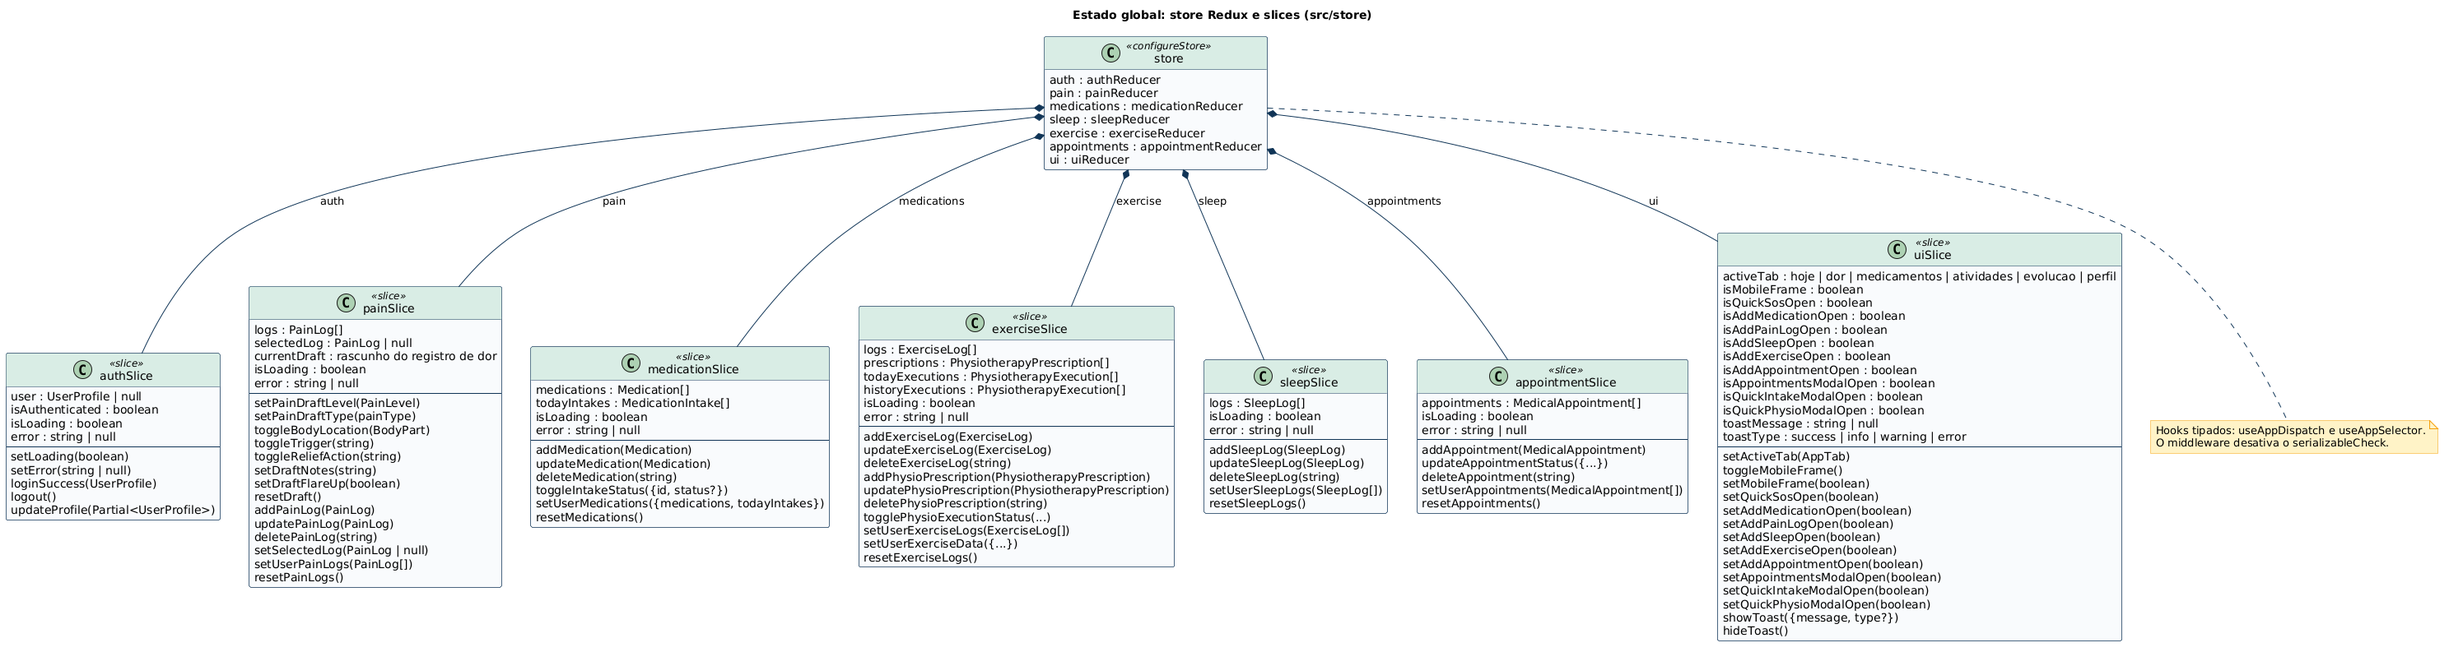
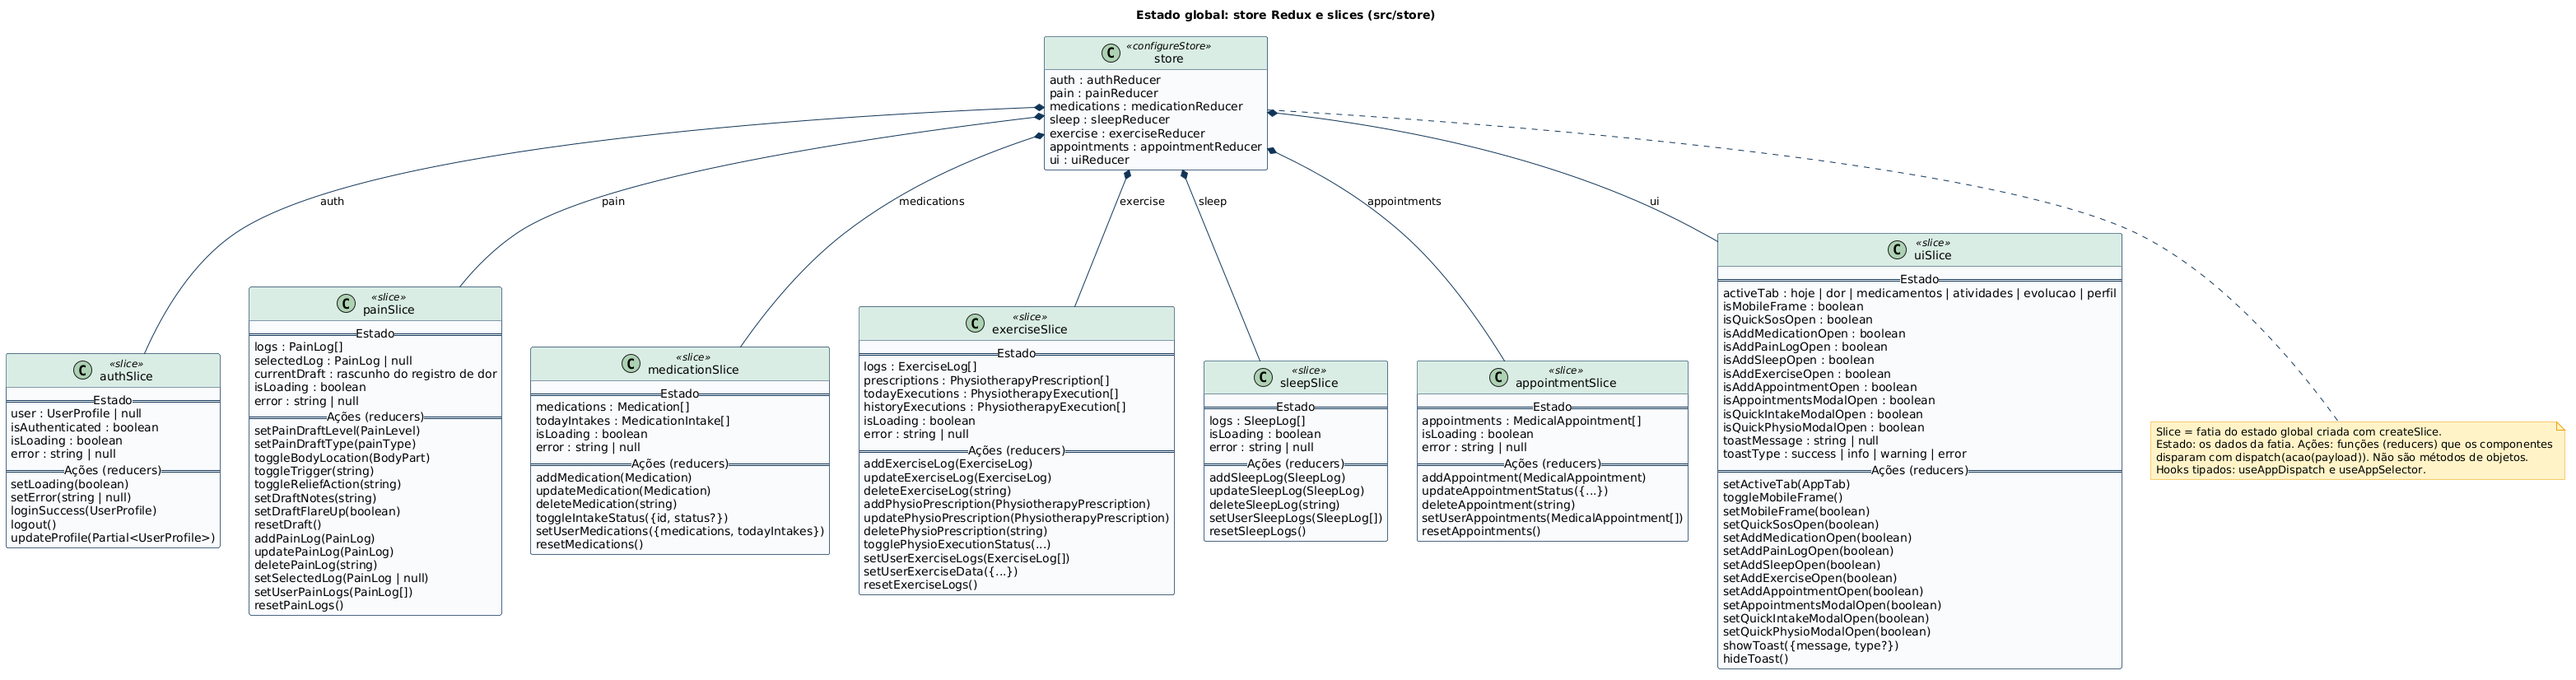
docs: detalha o fluxo Redux e o diagrama do store

diff --git a/docs/uml/classes-codigo/README.md b/docs/uml/classes-codigo/README.md
@@ -17,7 +17,7 @@ Eles complementam os diagramas de [`../classes/`](../classes/README.md), que vê
 ## Convenções
 
 - Os tipos TypeScript (`interface`) aparecem como classes com o estereótipo `<<interface>>`.
-- Os slices do Redux Toolkit aparecem como classes `<<slice>>`: os atributos são o estado, e os métodos são as ações (reducers).
+- Os slices do Redux Toolkit aparecem como classes `<<slice>>`. A seção **Estado** traz os dados da fatia, e a seção **Ações (reducers)** traz as funções que os componentes disparam com `dispatch`. Não são métodos de objetos. O fluxo completo está no diagrama de sequência [09](../sequencia/09-fluxo-redux-registrar-dose.puml).
 - Os serviços são classes com métodos estáticos (`{static}`).
 - No diagrama 04, as setas tracejadas indicam dependência por importação. As ligações com o `uiSlice` foram omitidas, porque quase todos os componentes o usam.
 
@@ -40,6 +40,14 @@ Ao ler o código, apareceram diferenças em relação aos documentos deste repos
 | SOS Crise | Comportamento em aberto (decisão D1) | Registra uma dor com `isFlareUp`, pode agendar uma consulta urgente e mostra o contato de emergência com link de ligação |
 
 Os PRDs, o TDD-0001, os ADRs e os diagramas de caso de uso, sequência e estados foram escritos antes da leitura do código. Eles precisam ser atualizados para refletir esta tabela.
+
+## Pontos de atenção observados no código
+
+Ao desenhar o fluxo de uma dose, apareceram pontos que merecem ser conferidos executando o app:
+
+- O `MedicationService` grava as doses na coleção `medication_intakes`, e o `UserDataSync` lê a coleção `intakes` ao entrar. Pelo código, o estado de uma dose pode não sobreviver ao recarregar a página.
+- Na `MedicationScreen`, a dose é marcada só no Redux (`dispatch(toggleIntakeStatus(...))`), sem chamar o `MedicationService`.
+- O tipo da dose aceita `skipped`, mas as telas só alternam entre `taken` e `pending`.
 
 ## Observação sobre dados de demonstração
 

diff --git a/docs/uml/sequencia/README.md b/docs/uml/sequencia/README.md
@@ -14,6 +14,7 @@ Diagramas de sequência dos principais fluxos do Cuidado Diário, escritos em [P
 | 06 | Exportar relatório em PDF | [06-exportar-relatorio.puml](06-exportar-relatorio.puml) | ![Exportar relatório](img/06-exportar-relatorio.png) | [PRD-0004](../../products/PRD-0004-DOR-E-SINTOMAS.md) |
 | 07 | Exportar ou excluir dados (LGPD) | [07-exportar-excluir-dados.puml](07-exportar-excluir-dados.puml) | ![LGPD](img/07-exportar-excluir-dados.png) | [PRD-0001](../../products/PRD-0001-VISAO-GERAL-DO-PRODUTO.md) |
 | 08 | Cadastrar consulta e alterar status | [08-gerenciar-consulta.puml](08-gerenciar-consulta.puml) | ![Consultas](img/08-gerenciar-consulta.png) | [PRD-0005](../../products/PRD-0005-CONSULTAS.md) |
+| 09 | Fluxo Redux no código: marcar dose no modal rápido | [09-fluxo-redux-registrar-dose.puml](09-fluxo-redux-registrar-dose.puml) | ![Fluxo Redux](img/09-fluxo-redux-registrar-dose.png) | `src/components/medications/QuickMedicationIntakeModal.tsx`, `src/store/slices/medicationSlice.ts` e `src/services/medicationService.ts` |
 
 ## Participantes
 
@@ -27,7 +28,7 @@ Diagramas de sequência dos principais fluxos do Cuidado Diário, escritos em [P
 
 ## Observações
 
-- Os fluxos foram montados a partir dos PRDs e do modelo de dados, e não do código do app. Revise-os com quem conhece a implementação.
+- Os fluxos 01 a 08 foram montados a partir dos PRDs e do modelo de dados, e não do código do app. Revise-os com quem conhece a implementação. O fluxo 09 foi extraído do código real.
 - O banco de dados aparece de forma genérica porque a persistência é adaptável.
 - Notas amarelas indicam pontos em aberto, como o que o SOS Crise aciona (decisão D1).
 

diff --git a/docs/README.md b/docs/README.md
@@ -99,7 +99,7 @@ Nenhum documento ainda. Ver [POL-000](policies/POL-000-INDEX.md) e [RFC-000](rfc
 | [`uml/casos-de-uso/`](uml/casos-de-uso/README.md) | Diagramas de caso de uso em PlantUML (8 diagramas) |
 | [`uml/classes/`](uml/classes/README.md) | Diagramas de classes em PlantUML (4 diagramas) |
 | [`uml/classes-codigo/`](uml/classes-codigo/README.md) | Diagramas de classes extraídos do código em `src/` (5 diagramas) |
-| [`uml/sequencia/`](uml/sequencia/README.md) | Diagramas de sequência em PlantUML (8 diagramas) |
+| [`uml/sequencia/`](uml/sequencia/README.md) | Diagramas de sequência em PlantUML (9 diagramas) |
 | [`uml/estados/`](uml/estados/README.md) | Diagramas de estados em PlantUML (5 diagramas) |
 | [`uml/componentes-e-implantacao/`](uml/componentes-e-implantacao/README.md) | Diagramas de componentes e de implantação em PlantUML (4 diagramas) |
 | `screenshots/` | Capturas oficiais das telas do app |
